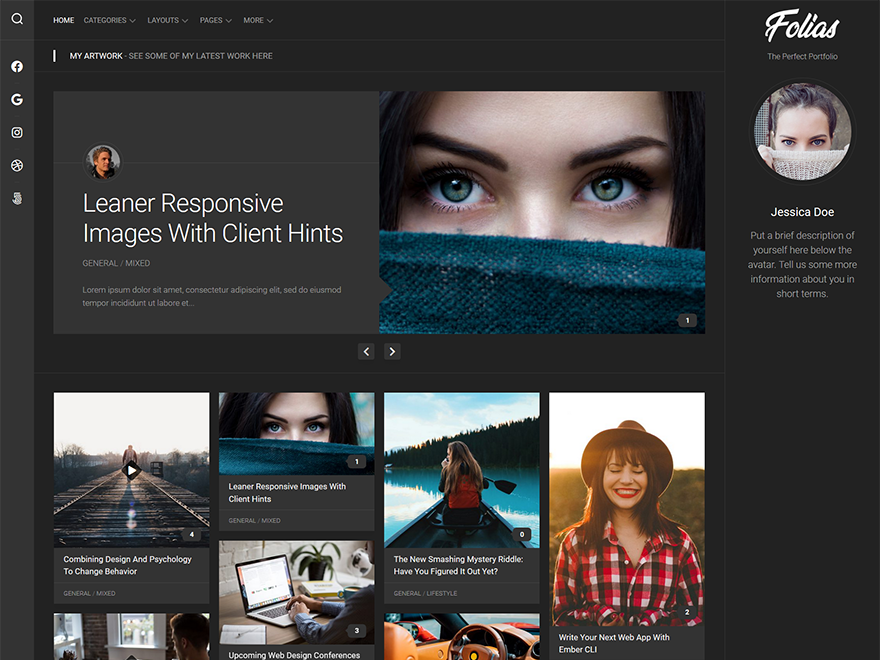
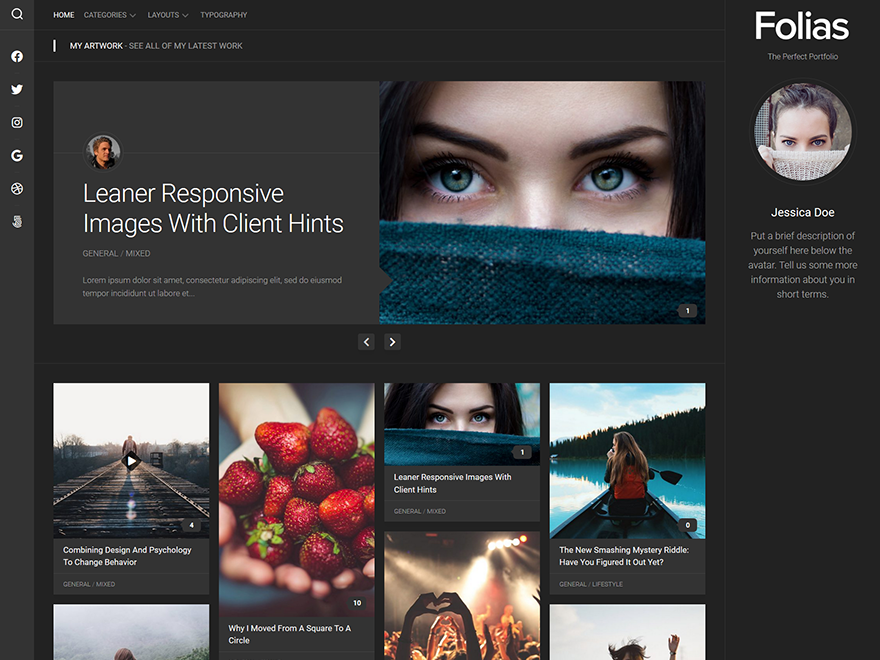
fixes

diff --git a/style.css b/style.css
@@ -598,7 +598,7 @@ box-shadow: inset 0 1px 1px rgba(0,0,0,0.4), 0 1px 0 rgba(255,255,255,0.03); }
 .page-title h1,
 .page-title h2,
 .page-title h3,
-.page-title h4 { font-size: 17px; text-transform: uppercase; line-height: 1.4em; font-weight: 400; border-left: 4px solid #fff; padding-left: 30px; }
+.page-title h4 { font-size: 16px; text-transform: uppercase; line-height: 1.4em; font-weight: 400; border-left: 4px solid #fff; padding-left: 30px; }
 .page-title span { color: #999; font-weight: 400; }
 .page-title .notebox { font-size: 16px; font-weight: 300; margin-top: 10px; }
 .single .page-title span { margin-left: 10px; }
@@ -726,15 +726,15 @@ box-shadow: 0 0 2px rgba(255,255,255,0.4);
 
 /*  header : search
 /* ------------------------------------ */
-.toggle-search { background: #333; outline: none; border: 0; border-bottom: 1px solid #444; padding: 27px 0; width: 70px; color: #000; text-align: center; font-size: 20px; line-height: 24px; cursor: pointer; display: block; }
+.toggle-search { background: #333; outline: none; border: 0; border-bottom: 1px solid #444; padding: 17px 0 16px; width: 70px; color: #000; text-align: center; font-size: 20px; line-height: 24px; cursor: pointer; display: block; }
 .toggle-search:hover {  }
 .toggle-search.active { background: #333; }
 .toggle-search.active i:before { content: "\f00d"; }
-.search-expand { display: none; background: #333; padding: 23px 30px 23px 0; position: absolute; top: 0; left: 70px; width: 290px; z-index: 10; }
+.search-expand { display: none; background: #333; padding: 13px 13px 13px 0; position: absolute; top: 0; left: 70px; width: 290px; z-index: 10; }
 .search-expand-inner {  }
 .search-expand .themeform input { background: #fff; width: 100%; border: 1px solid #ddd; }
 .search-expand .themeform input:focus { border-color: #ccc; }
-.toggle-search.active { padding-top: 30px; padding-bottom: 29px; }
+.toggle-search.active { padding-top: 19px; padding-bottom: 19px; }
 .toggle-search .svg-icon { fill: #fff; margin: 0 auto; }
 .toggle-search #svg-close { display: none; }
 .toggle-search.active #svg-search { display: none; }
@@ -839,7 +839,7 @@ box-shadow: 0 0 2px rgba(255,255,255,0.4);
 .nav-menu:not(.mobile) .menu ul ul:after { border-right-color: #eee; }
 .nav-menu-dropdown-left .nav-menu:not(.mobile) .menu ul ul:after { border-left-color: #eee; }
 
-.nav-menu:not(.mobile) { font-size: 15px; font-weight: 400; float: none; padding: 16px 40px 30px 40px; }
+.nav-menu:not(.mobile) { font-size: 15px; font-weight: 400; float: none; padding: 5px 40px 20px 40px; }
 .nav-menu:not(.mobile) a { color: #999; }
 .nav-menu:not(.mobile) a:hover { color: #fff; }
 .nav-menu:not(.mobile) ul ul a:hover { color: #000; }

diff --git a/responsive.css b/responsive.css
@@ -19,7 +19,8 @@
 	.page-title h4 { font-size: 15px; }
 }
 @media only screen and (min-width: 1024px) and (max-width: 1080px) {
-	.featured-item { height: 340px; }
+	.featured-item { height: 460px; }
+	.featured-item-title { font-size: 32px; }
 	.type-portfolio { width: 290px; }
 }
 @media only screen and (min-width: 960px) and (max-width: 1200px) {
